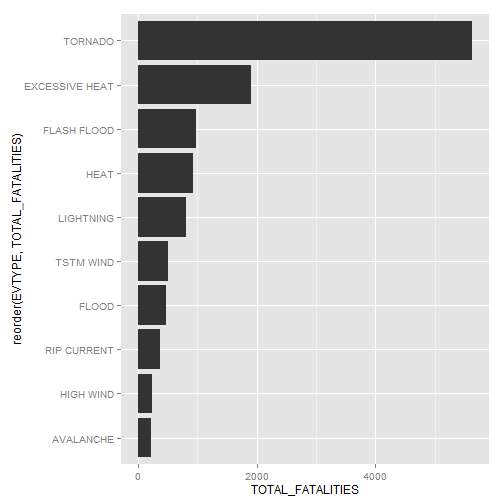
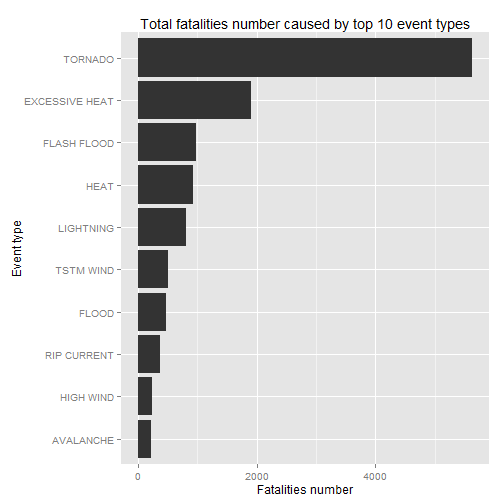
population damage

diff --git a/report.html b/report.html
@@ -984,10 +984,10 @@ data_per_type
 
 <h4>Total value</h4>
 
-<p>In the end, to simplify further processing, let&#39;s calculate some summary damage measurements:</p>
+<p>In the end, to simplify further processing, let&#39;s calculate some summary damage measurements. Heuristically, we will think about fatality 5 times worse as injury and property damage equal to crop:</p>
 
 <pre><code class="r">data_per_type &lt;- mutate(data_per_type,
-    TOTAL_POPULATION_DAMAGE = TOTAL_FATALITIES + TOTAL_INJURIES,
+    TOTAL_POPULATION_DAMAGE = 5 * TOTAL_FATALITIES + TOTAL_INJURIES,
     TOTAL_ECONOMICAL_DAMAGE = TOTAL_PROPERTY_DAMAGE + TOTAL_CROP_DAMAGE
 )
 data_per_type
@@ -1013,25 +1013,127 @@ data_per_type
 
 <h2>Results</h2>
 
+<h3>Population damage</h3>
+
+<p>Let&#39;s first look at top 10 event types that causes fatalities:</p>
+
 <pre><code class="r">ggplot(
     slice(arrange(data_per_type, desc(TOTAL_FATALITIES)), 1:10), 
     aes(x = reorder(EVTYPE, TOTAL_FATALITIES), y = TOTAL_FATALITIES)
 ) + 
 geom_bar(stat=&quot;identity&quot;) + 
-coord_flip()
+coord_flip() + 
+labs(x = &#39;Event type&#39;) +
+labs(y = &#39;Fatalities number&#39;) +
+labs(title = &#39;Total fatalities number caused by top 10 event types&#39;)
 </code></pre>
 
[2 lines of base64/hex data omitted]
+
+<p>Or, more detailed, table with top 20 event types:</p>
+
+<pre><code class="r">select(slice(arrange(data_per_type, desc(TOTAL_FATALITIES)), 1:20), EVTYPE, TOTAL_FATALITIES)
+</code></pre>
+
+<pre><code>## Source: local data frame [20 x 2]
+## 
+##                     EVTYPE TOTAL_FATALITIES
+## 1                  TORNADO             5633
+## 2           EXCESSIVE HEAT             1903
+## 3              FLASH FLOOD              978
+## 4                     HEAT              937
+## 5                LIGHTNING              816
+## 6                TSTM WIND              504
+## 7                    FLOOD              470
+## 8              RIP CURRENT              368
+## 9                HIGH WIND              248
+## 10               AVALANCHE              224
+## 11            WINTER STORM              206
+## 12            RIP CURRENTS              204
+## 13               HEAT WAVE              172
+## 14            EXTREME COLD              162
+## 15       THUNDERSTORM WIND              133
+## 16              HEAVY SNOW              127
+## 17 EXTREME COLD/WIND CHILL              125
+## 18               HIGH SURF              104
+## 19             STRONG WIND              103
+## 20                BLIZZARD              101
+</code></pre>
+
+<p>Now, let&#39;s look at top 10 event types that causes injuries:</p>
 
 <pre><code class="r">ggplot(
     slice(arrange(data_per_type, desc(TOTAL_INJURIES)), 1:10), 
     aes(x = reorder(EVTYPE, TOTAL_INJURIES), y = TOTAL_INJURIES)
 ) + 
 geom_bar(stat=&quot;identity&quot;) + 
-coord_flip()
+coord_flip() + 
+labs(x = &#39;Event type&#39;) +
+labs(y = &#39;Injuries number&#39;) +
+labs(title = &#39;Total injuries number caused by top 10 event types&#39;)
 </code></pre>
 
[2 lines of base64/hex data omitted]
+
+<p>Or, more detailed, table with top 20 event types:</p>
+
+<pre><code class="r">select(slice(arrange(data_per_type, desc(TOTAL_INJURIES)), 1:20), EVTYPE, TOTAL_INJURIES)
+</code></pre>
+
+<pre><code>## Source: local data frame [20 x 2]
+## 
+##                EVTYPE TOTAL_INJURIES
+## 1             TORNADO          91346
+## 2           TSTM WIND           6957
+## 3               FLOOD           6789
+## 4      EXCESSIVE HEAT           6525
+## 5           LIGHTNING           5230
+## 6                HEAT           2100
+## 7           ICE STORM           1975
+## 8         FLASH FLOOD           1777
+## 9   THUNDERSTORM WIND           1488
+## 10               HAIL           1361
+## 11       WINTER STORM           1321
+## 12  HURRICANE/TYPHOON           1275
+## 13          HIGH WIND           1137
+## 14         HEAVY SNOW           1021
+## 15           WILDFIRE            911
+## 16 THUNDERSTORM WINDS            908
+## 17           BLIZZARD            805
+## 18                FOG            734
+## 19   WILD/FOREST FIRE            545
+## 20         DUST STORM            440
+</code></pre>
+
+<p>Finally, let&#39;s look at top 20 event types, calculated by our heuristic algo (fatality 5 times worse as injury):</p>
+
+<pre><code class="r">select(slice(arrange(data_per_type, desc(TOTAL_POPULATION_DAMAGE)), 1:20), EVTYPE, TOTAL_FATALITIES, TOTAL_INJURIES)
+</code></pre>
+
+<pre><code>## Source: local data frame [20 x 3]
+## 
+##               EVTYPE TOTAL_FATALITIES TOTAL_INJURIES
+## 1            TORNADO             5633          91346
+## 2     EXCESSIVE HEAT             1903           6525
+## 3          TSTM WIND              504           6957
+## 4          LIGHTNING              816           5230
+## 5              FLOOD              470           6789
+## 6               HEAT              937           2100
+## 7        FLASH FLOOD              978           1777
+## 8          ICE STORM               89           1975
+## 9          HIGH WIND              248           1137
+## 10      WINTER STORM              206           1321
+## 11 THUNDERSTORM WIND              133           1488
+## 12       RIP CURRENT              368            232
+## 13        HEAVY SNOW              127           1021
+## 14 HURRICANE/TYPHOON               64           1275
+## 15              HAIL               15           1361
+## 16      RIP CURRENTS              204            297
+## 17          BLIZZARD              101            805
+## 18         AVALANCHE              224            170
+## 19          WILDFIRE               75            911
+## 20         HEAT WAVE              172            379
+</code></pre>
 
 <pre><code class="r">ggplot(
     slice(arrange(data_per_type, desc(TOTAL_ECONOMICAL_DAMAGE)), 1:10), 
@@ -1041,7 +1143,7 @@ geom_bar(stat=&quot;identity&quot;) +
 coord_flip()
 </code></pre>
 
[2 lines of base64/hex data omitted]
 
 </body>
 

diff --git a/report.md b/report.md
@@ -799,12 +799,12 @@ data_per_type
 
 #### Total value
 
-In the end, to simplify further processing, let's calculate some summary damage measurements:
+In the end, to simplify further processing, let's calculate some summary damage measurements. Heuristically, we will think about fatality 5 times worse as injury and property damage equal to crop:
 
 
 ```r
 data_per_type <- mutate(data_per_type,
-	TOTAL_POPULATION_DAMAGE = TOTAL_FATALITIES + TOTAL_INJURIES,
+	TOTAL_POPULATION_DAMAGE = 5 * TOTAL_FATALITIES + TOTAL_INJURIES,
 	TOTAL_ECONOMICAL_DAMAGE = TOTAL_PROPERTY_DAMAGE + TOTAL_CROP_DAMAGE
 )
 data_per_type
@@ -831,6 +831,10 @@ data_per_type
 
 ## Results
 
+### Population damage
+
+Let's first look at top 10 event types that causes fatalities:
+
 
 ```r
 ggplot(
@@ -838,10 +842,49 @@ ggplot(
 	aes(x = reorder(EVTYPE, TOTAL_FATALITIES), y = TOTAL_FATALITIES)
 ) + 
 geom_bar(stat="identity") + 
-coord_flip()
+coord_flip() + 
+labs(x = 'Event type') +
+labs(y = 'Fatalities number') +
+labs(title = 'Total fatalities number caused by top 10 event types')
 ```
 
 ![plot of chunk unnamed-chunk-11](figure/unnamed-chunk-11-1.png) 
+
+Or, more detailed, table with top 20 event types:
+
+
+```r
+select(slice(arrange(data_per_type, desc(TOTAL_FATALITIES)), 1:20), EVTYPE, TOTAL_FATALITIES)
+```
+
+```
+## Source: local data frame [20 x 2]
+## 
+##                     EVTYPE TOTAL_FATALITIES
+## 1                  TORNADO             5633
+## 2           EXCESSIVE HEAT             1903
+## 3              FLASH FLOOD              978
+## 4                     HEAT              937
+## 5                LIGHTNING              816
+## 6                TSTM WIND              504
+## 7                    FLOOD              470
+## 8              RIP CURRENT              368
+## 9                HIGH WIND              248
+## 10               AVALANCHE              224
+## 11            WINTER STORM              206
+## 12            RIP CURRENTS              204
+## 13               HEAT WAVE              172
+## 14            EXTREME COLD              162
+## 15       THUNDERSTORM WIND              133
+## 16              HEAVY SNOW              127
+## 17 EXTREME COLD/WIND CHILL              125
+## 18               HIGH SURF              104
+## 19             STRONG WIND              103
+## 20                BLIZZARD              101
+```
+
+Now, let's look at top 10 event types that causes injuries:
+
 
 ```r
 ggplot(
@@ -849,10 +892,80 @@ ggplot(
 	aes(x = reorder(EVTYPE, TOTAL_INJURIES), y = TOTAL_INJURIES)
 ) + 
 geom_bar(stat="identity") + 
-coord_flip()
+coord_flip() + 
+labs(x = 'Event type') +
+labs(y = 'Injuries number') +
+labs(title = 'Total injuries number caused by top 10 event types')
 ```
 
-![plot of chunk unnamed-chunk-11](figure/unnamed-chunk-11-2.png) 
+![plot of chunk unnamed-chunk-13](figure/unnamed-chunk-13-1.png) 
+
+Or, more detailed, table with top 20 event types:
+
+
+```r
+select(slice(arrange(data_per_type, desc(TOTAL_INJURIES)), 1:20), EVTYPE, TOTAL_INJURIES)
+```
+
+```
+## Source: local data frame [20 x 2]
+## 
+##                EVTYPE TOTAL_INJURIES
+## 1             TORNADO          91346
+## 2           TSTM WIND           6957
+## 3               FLOOD           6789
+## 4      EXCESSIVE HEAT           6525
+## 5           LIGHTNING           5230
+## 6                HEAT           2100
+## 7           ICE STORM           1975
+## 8         FLASH FLOOD           1777
+## 9   THUNDERSTORM WIND           1488
+## 10               HAIL           1361
+## 11       WINTER STORM           1321
+## 12  HURRICANE/TYPHOON           1275
+## 13          HIGH WIND           1137
+## 14         HEAVY SNOW           1021
+## 15           WILDFIRE            911
+## 16 THUNDERSTORM WINDS            908
+## 17           BLIZZARD            805
+## 18                FOG            734
+## 19   WILD/FOREST FIRE            545
+## 20         DUST STORM            440
+```
+
+Finally, let's look at top 20 event types, calculated by our heuristic algo (fatality 5 times worse as injury):
+
+
+```r
+select(slice(arrange(data_per_type, desc(TOTAL_POPULATION_DAMAGE)), 1:20), EVTYPE, TOTAL_FATALITIES, TOTAL_INJURIES)
+```
+
+```
+## Source: local data frame [20 x 3]
+## 
+##               EVTYPE TOTAL_FATALITIES TOTAL_INJURIES
+## 1            TORNADO             5633          91346
+## 2     EXCESSIVE HEAT             1903           6525
+## 3          TSTM WIND              504           6957
+## 4          LIGHTNING              816           5230
+## 5              FLOOD              470           6789
+## 6               HEAT              937           2100
+## 7        FLASH FLOOD              978           1777
+## 8          ICE STORM               89           1975
+## 9          HIGH WIND              248           1137
+## 10      WINTER STORM              206           1321
+## 11 THUNDERSTORM WIND              133           1488
+## 12       RIP CURRENT              368            232
+## 13        HEAVY SNOW              127           1021
+## 14 HURRICANE/TYPHOON               64           1275
+## 15              HAIL               15           1361
+## 16      RIP CURRENTS              204            297
+## 17          BLIZZARD              101            805
+## 18         AVALANCHE              224            170
+## 19          WILDFIRE               75            911
+## 20         HEAT WAVE              172            379
+```
+
 
 ```r
 ggplot(
@@ -863,4 +976,4 @@ geom_bar(stat="identity") +
 coord_flip()
 ```
 
-![plot of chunk unnamed-chunk-11](figure/unnamed-chunk-11-3.png) 
+![plot of chunk unnamed-chunk-16](figure/unnamed-chunk-16-1.png) 
